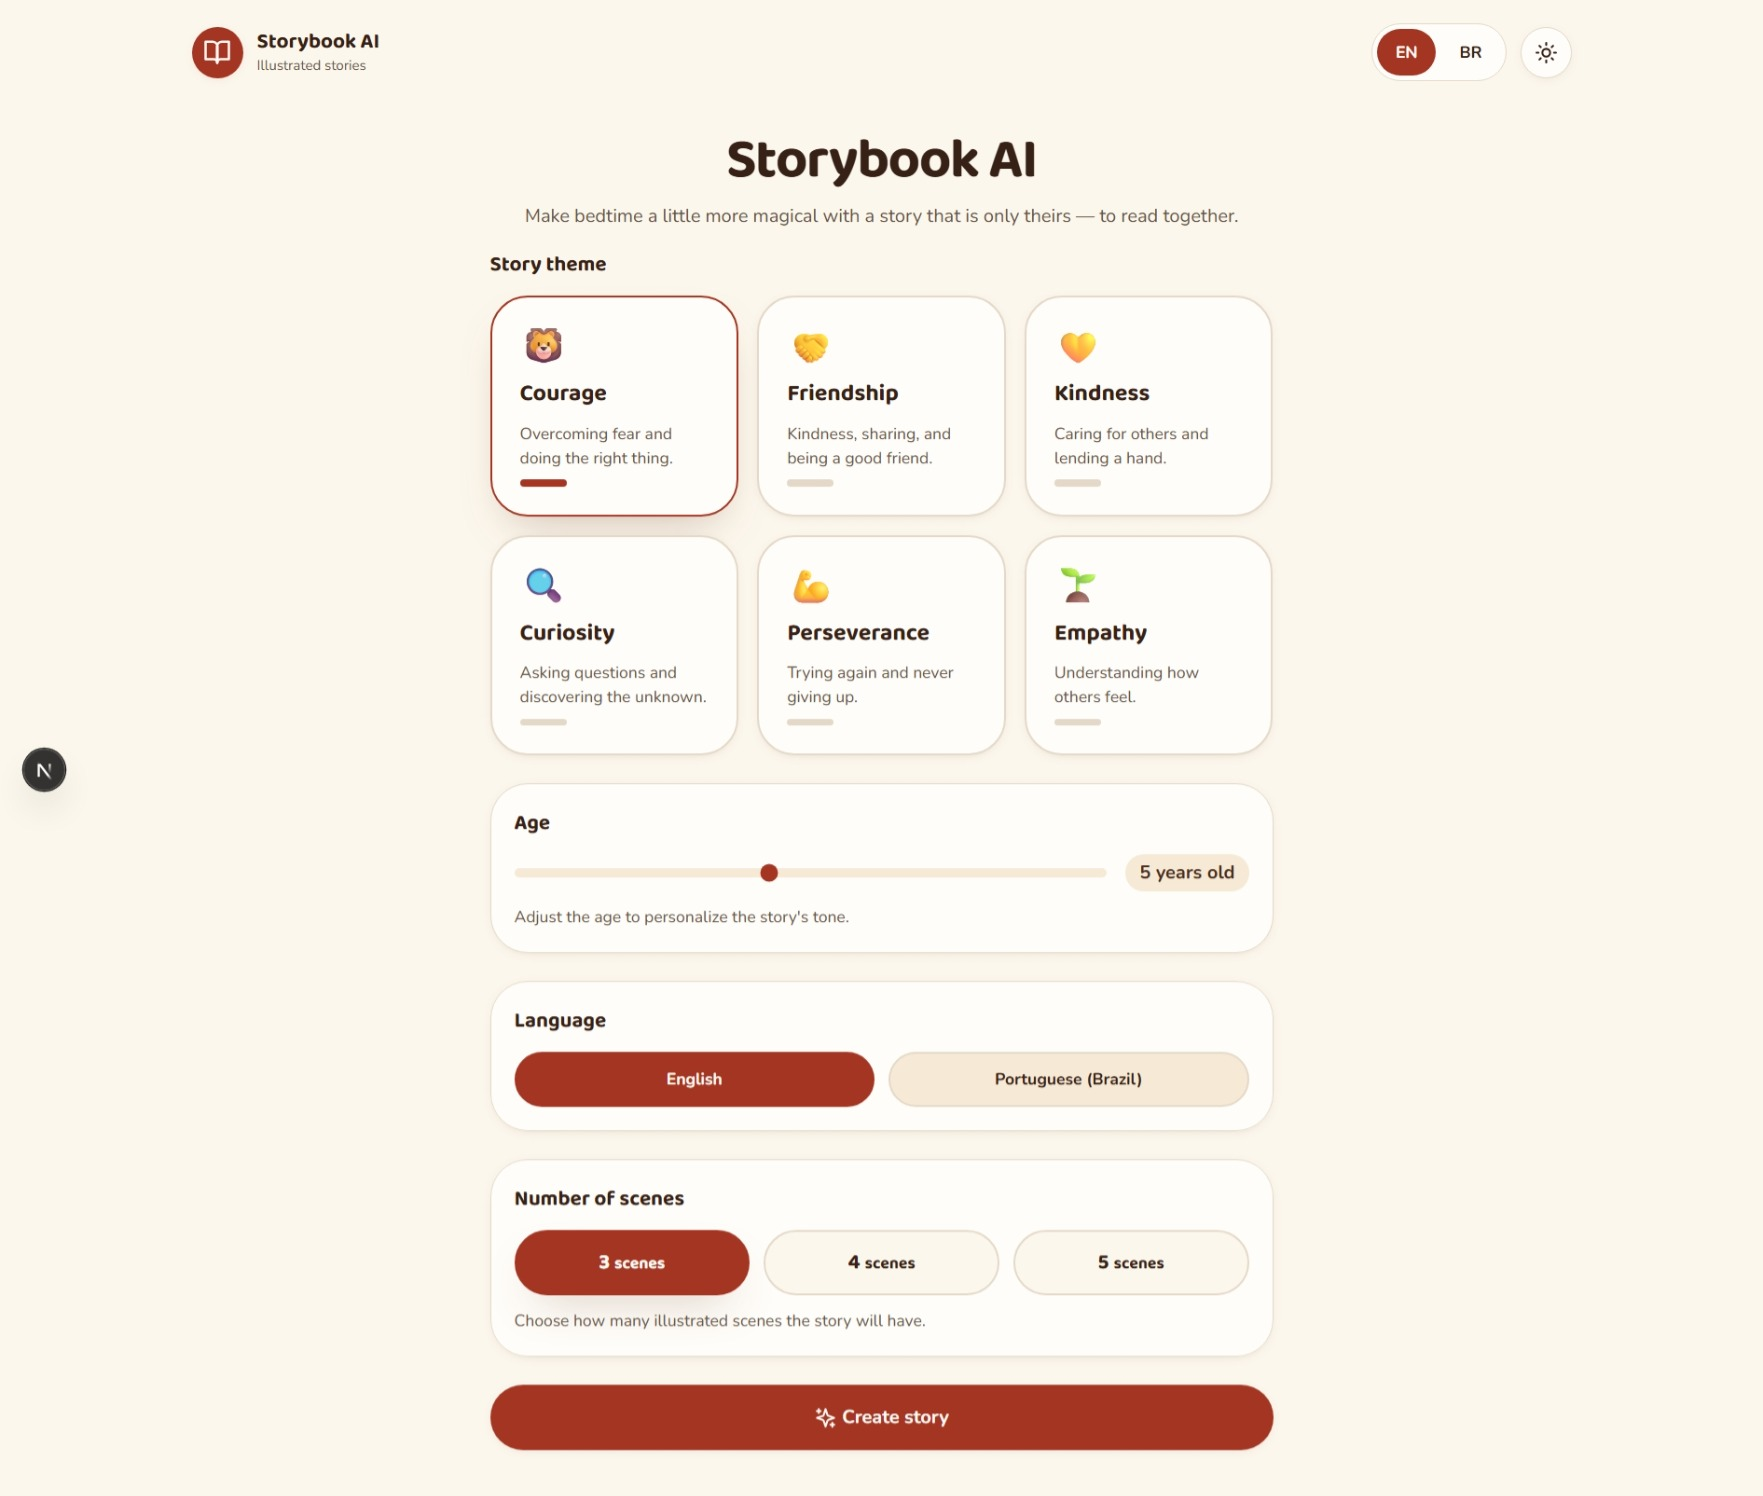
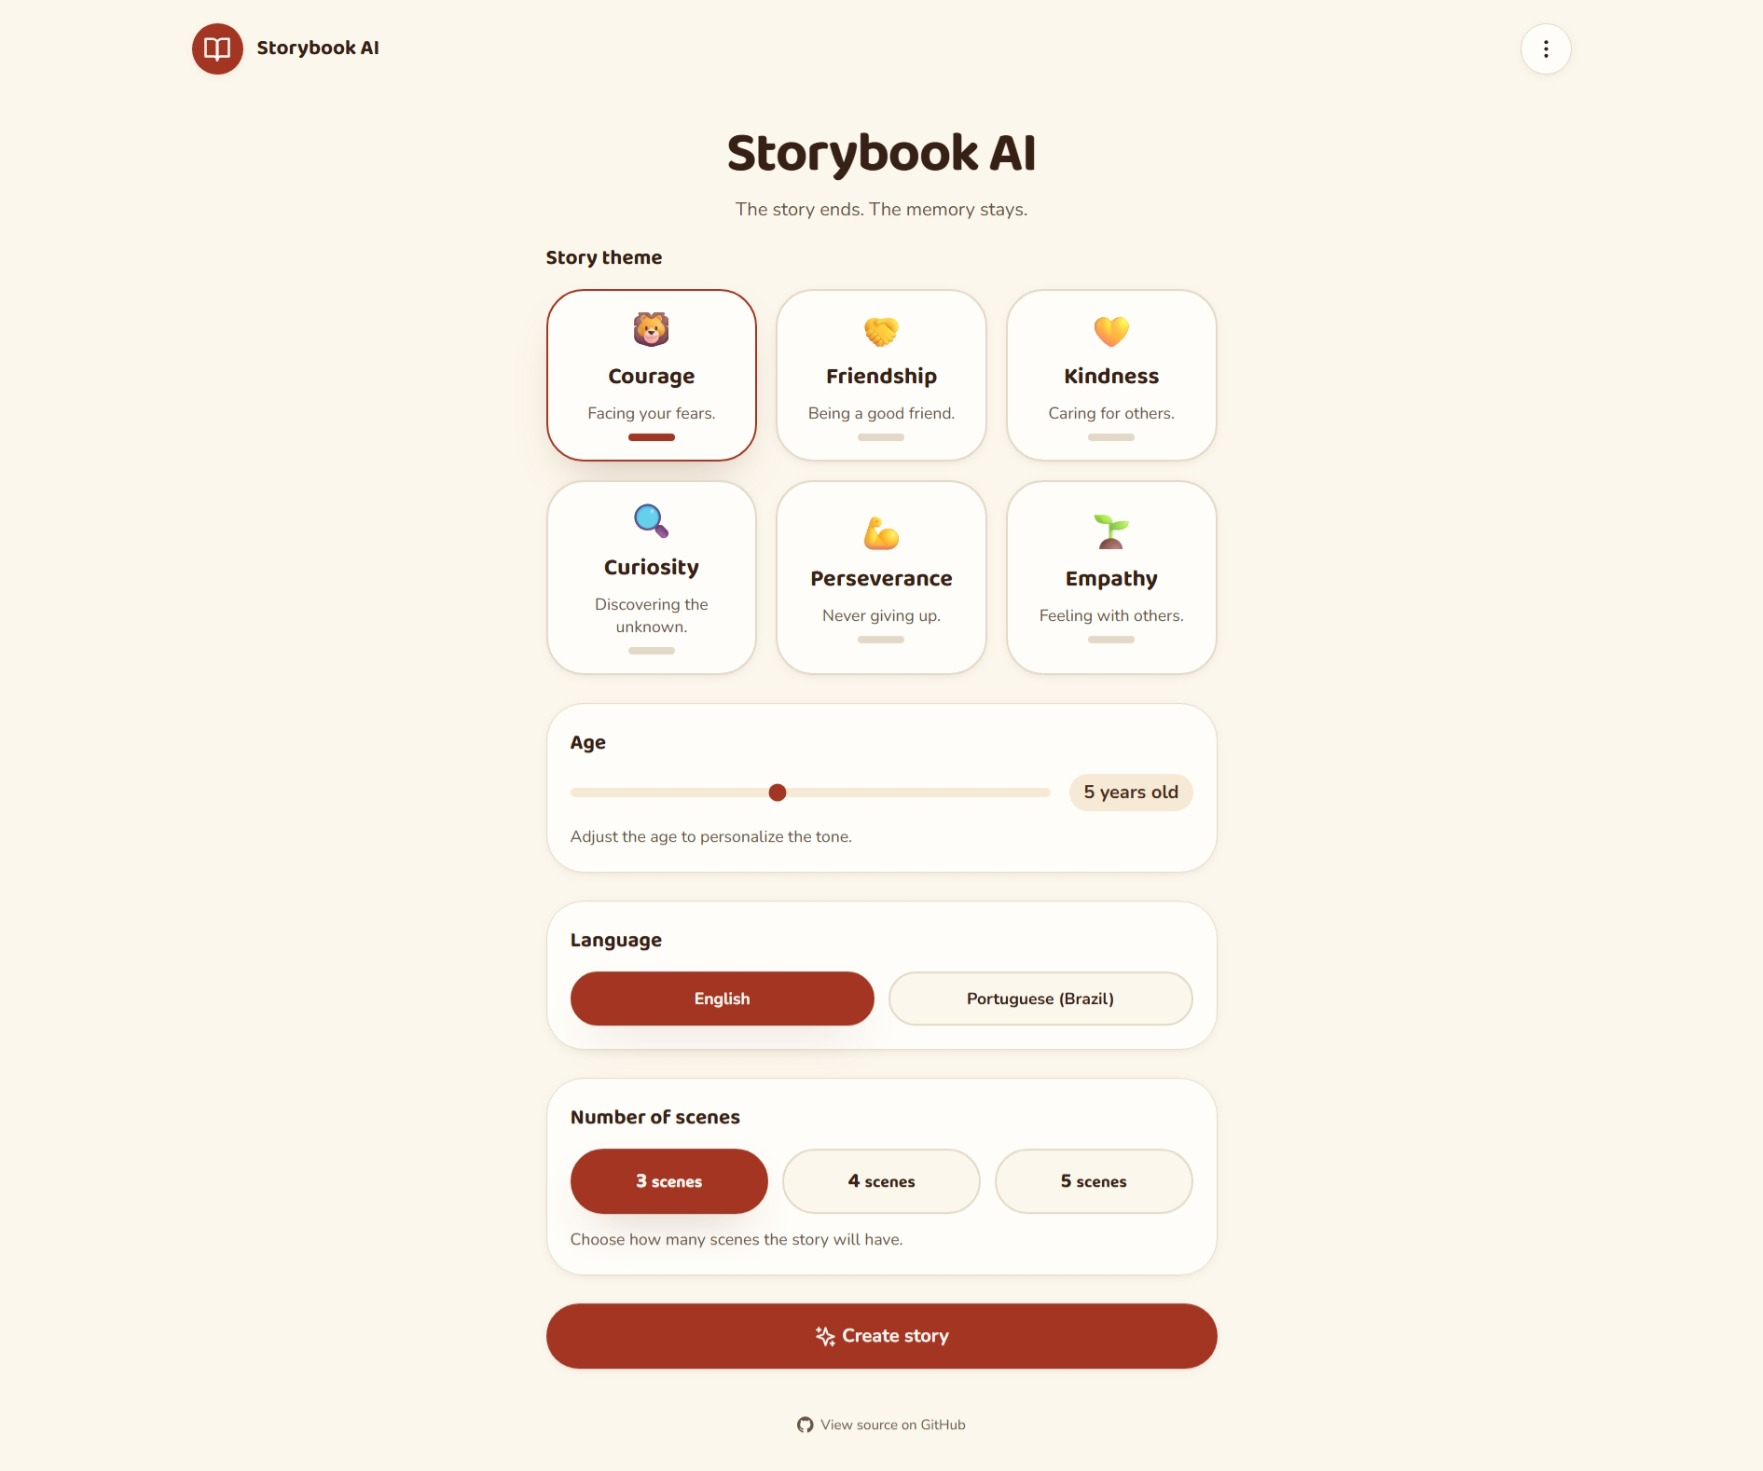
:memo: docs(readme): atualiza screenshots do formulário e do leitor (#44)
* :memo: docs(readme): atualiza screenshots do formulário e do leitor

* :wastebasket: chore(agents): remove seção de licenciamento do AGENTS.md

diff --git a/AGENTS.md b/AGENTS.md
@@ -191,14 +191,6 @@ A lightweight git pre-commit hook (`scripts/pre-commit`) runs `lint`, `format:ch
   `@react-pdf/renderer` only on export — never in the initial bundle).
 - Scene navigation ≤100 ms p75 after assets load.
 
-## Legal & Licensing
-
-This is a **personal, non-commercial** project. Copyright and all rights are
-reserved (no open-source license is granted; the repository is published for
-portfolio review only, so there is no `LICENSE` file). The `README` contains
-a disclaimer covering AI-generated content, caregiver responsibility, and the
-anonymous design. Do not remove, weaken, or bypass these notices.
-
 ## Definition of Done
 
 Before a PR/commit: all required checks pass; coverage gates met; no direct
